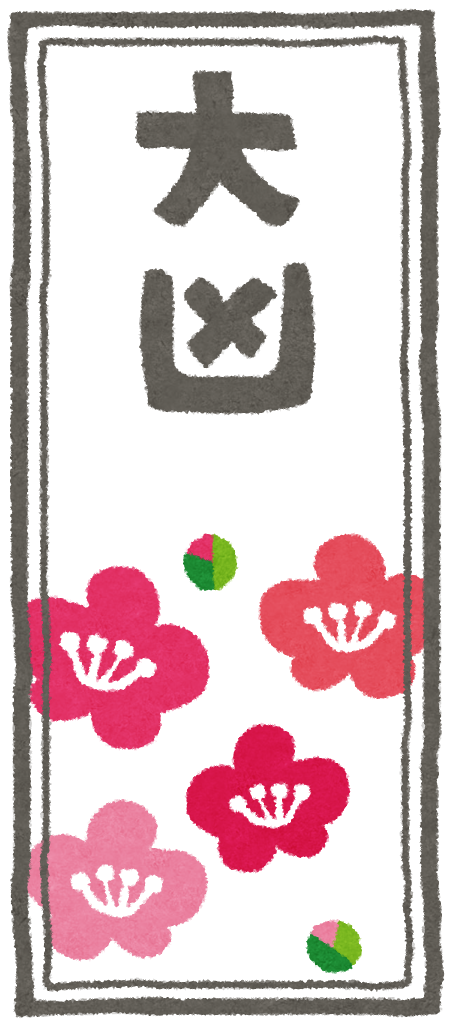
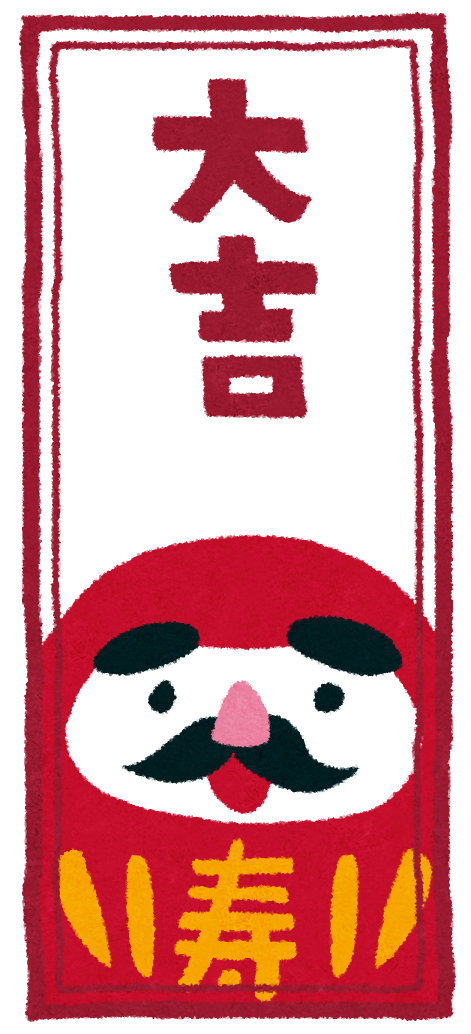
大凶を廃止...

diff --git a/js/omikuji.js b/js/omikuji.js
@@ -59,7 +59,7 @@ function result() {
 // 読み込み時に結果決定
 $(window).on('load', function () {
   // ランダム数生成
-  var num = Math.floor(Math.random() * 7);
+  var num = Math.floor(Math.random() * 6);
   $('#omikuji').after('<div id="result"><img src="./images/' + String(num) + '.png" width="0%" alt="" class="mx-auto d-block"></div>');
   $('#result').after('<a href="/"><h3 class="text-center m-4" style="display: none">ホームに戻る</h3></a>')
 });
